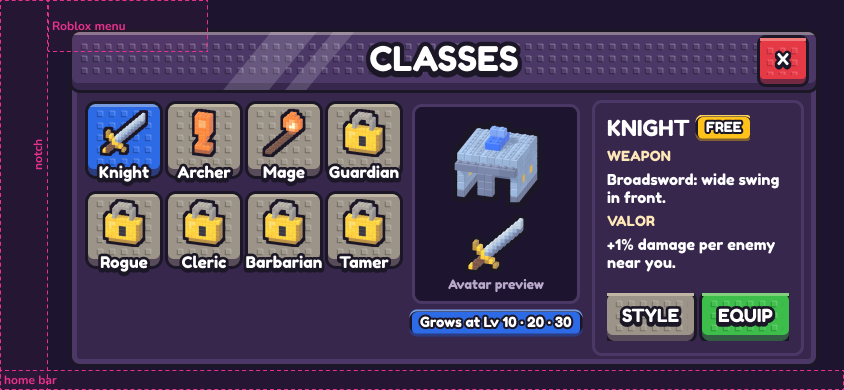
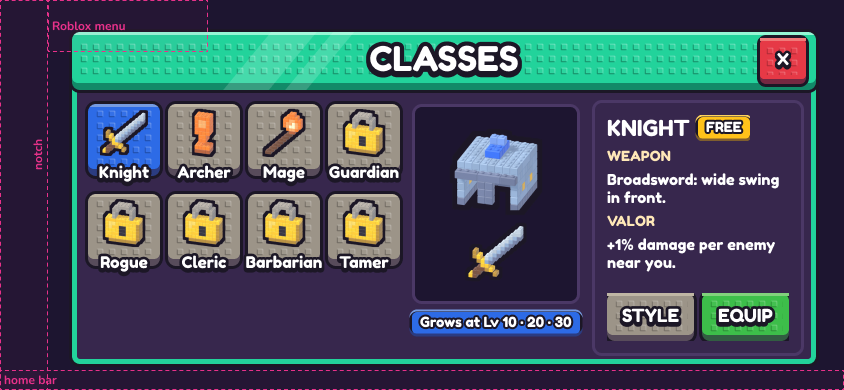
A09: corrections après relecture à l'aveugle des menus v3
Onglets à 44 px, interrupteur unique dans Settings, « tokens » en entier,
pass sans date de fin ni bouton d'achat dominant, légendes retirées.

Changed region(s): [[0.0616, 0.0615, 0.9858, 0.9231], [0.5237, 0.3077, 0.6469, 0.7385], [0.0924, 0.9231, 0.955, 0.9538]]

diff --git a/docs/dossier/65-lobby.md b/docs/dossier/65-lobby.md
@@ -171,7 +171,7 @@ Maquettes Figma : **[COHUE — Menus & Lobby (A09)](https://www.figma.com/design
 
 Planche des 14 écrans v3 (5 nov.) : [img/65-menus-v3.png](img/65-menus-v3.png).
 
-**Style UI : v3 « briques » de A08**, validé par Clément le 5 nov. (lobby, puis le concept Classes). Tous les écrans sont refaits avec la bibliothèque v3 de A08 : `Window` (en-tête recoloré par la variable de zone du menu, en attendant la propriété Zone de A08), `Button` (taille L de 48 px), `Tile`, `Tag`, `Portrait`, `Lobby/*`, icônes `BrickIcon/*`. Texte en Fredoka One, très peu de phrases. Icônes provisoires : Archer « ! » (arc d'A14 attendu) et compagnons « cage » (portraits d'A05 attendus). Relecture à l'aveugle du concept Classes : 6,3 / 10, plafonné à 5 par des boutons de 40 px ; corrigé. Les animations ne sont pas spécifiées (U4 = 0).
+**Style UI : v3 « briques » de A08**, validé par Clément le 5 nov. (lobby, puis le concept Classes). Tous les écrans sont refaits avec la bibliothèque v3 de A08 : `Window` (en-tête recoloré par la variable de zone du menu, en attendant la propriété Zone de A08), `Button` (taille L de 48 px), `Tile`, `Tag`, `Portrait`, `Lobby/*`, icônes `BrickIcon/*`. Texte en Fredoka One, très peu de phrases. Icônes provisoires : Archer « ! » (arc d'A14 attendu) et compagnons « cage » (portraits d'A05 attendus). Relectures à l'aveugle (5 nov.) : concept Classes 6,3 / 10, puis l'ensemble 5,8 / 10 (plafonné à 5 sur estimation d'une planche réduite). Mesure faite : seuls les onglets COLLECTION / STYLE faisaient 40 px, passés à 44 px. Corrigé aussi : un seul interrupteur par réglage, « tokens » écrit en entier, plus de date de fin de saison sur le pass, bouton d'achat du pass moins dominant, légendes inutiles retirées. Restent notés : les animations ne sont pas spécifiées (U4 = 0), et les menus partagent la même structure fenêtre + grille + fiche (le relecteur y voit un gabarit ; c'est aussi ce qui les rend cohérents). En-têtes : A08 a ajouté une variante de `Window` par zone, à brancher après le prochain Publish.
 
 Règles communes :
 
